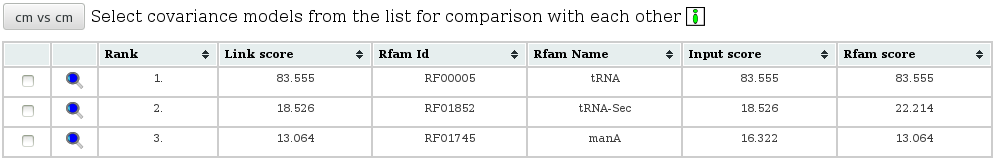
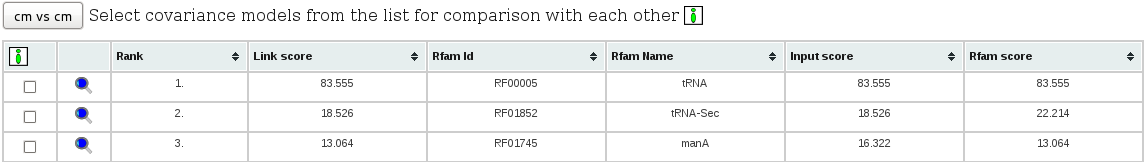
Added description of Input/Rfam/Linkscore to help and with a infobox to the resulttables

diff --git a/help.html b/help.html
@@ -212,7 +212,11 @@
 		</tr>
 	      </table>
 	    <p>
-	      The list of comparisons provides only a part of details from CMcompare output, to simplify the identification of relevant links (see Figure 11).
+	      The list of comparisons provides only a part of details from
+	      CMcompare output, to simplify the identification of relevant
+	      links (see Figure 11).
+	      CMCompare computes a score for the input model (Input score) and one for
+	      the Rfam model (Rfam score). The lower value is the Link score.
 	      Sorting of the list is possible by clicking the header of the column to be sorted. Sortable columns are indicated by a triangle next to the
 	      column title. Magnifing glasses in each line link to a detailed view of each comparison, and provide all output details of CMcompare.
 	      Optionally a set of interesting models can be compared versus each other by selecting the checkboxes at the beginning of those lines
@@ -291,7 +295,9 @@
 	    </p>
 	    <p>
 	      The detailed comparison table provides the full CMCompare output. Individual scores
-	      of both models, as well as the secondary structure shared between the models are contained. The matching nodes line maps the secondary structure to the nodes of the model.
+	      of both models, as well as the secondary structure shared
+	      between the models are contained. The Link score is the lower value
+	      of the Model scores. The matching nodes line maps the secondary structure to the nodes of the model.
 	    </p>
 	    <table> 
 	      <tr>

diff --git a/template/output.html b/template/output.html
@@ -53,6 +53,32 @@
   </div>
 </div>
 
+<div id="5" class="tooltip2" style="width: 400px;">
+  <div class="content">
+    <div class="head">Result Table:</div>
+    Sort the list by clicking the header of the column to be sorted.<br>
+    Magnifing glasses  link to a detailed view of each comparison.<br>
+    CMCompare computes a score for the input model (Input score) and one
+    for the Rfam model (Rfam score). The lower value is the Link score.<br>
+    <br>   
+   Optionally a set of interesting models can be compared versus each other by selecting the checkboxes at the beginning of those lines
+   and clicking <em>cm vs cm</em>.<br>
+    --&gt; For more information see Help 
+  </div>
+</div>
+
+<div id="6" class="tooltip2" style="width: 400px;">
+  <div class="content">
+    <div class="head">Result Table:</div>
+    Sort the list by clicking the header of the column to be sorted.<br>
+    Magnifing glasses  link to a detailed view of each comparison.<br>
+    CMCompare computes a score for Model 1 (Model 1 score) and one
+    for Model 2 (Model 2 score). The lower value is the Link score.<br>
+    <br>   
+    --&gt; For more information see Help 
+  </div>
+</div>
+
 
 <div style="text-align:left">
   <h2>[% output_title %]</h2>

diff --git a/template/input.html b/template/input.html
@@ -11,7 +11,7 @@
         --&gt; For more information see Help 
      </div>
    </div>
-   </div>
+
    <div id="2" class="tooltip2" style="width: 300px;">
      <div class="content">
        <div class="head">Upload a file containing<br> multiple alignments or covariance models:</div>
@@ -24,7 +24,7 @@
         --&gt; For more information see Help 
      </div>
    </div>
-</div>
+
    <div id="3" class="tooltip2" style="width:300px;">
      <div class="content">
        <div class="head">Upload a file containing<br> multiple alignments or covariance models:</div>
@@ -38,7 +38,7 @@
 	   --&gt; For more information see Help 
      </div>
    </div>
-</div>
+
 
    <div style="text-align:center">
      <h3>= Compare =</h3>
